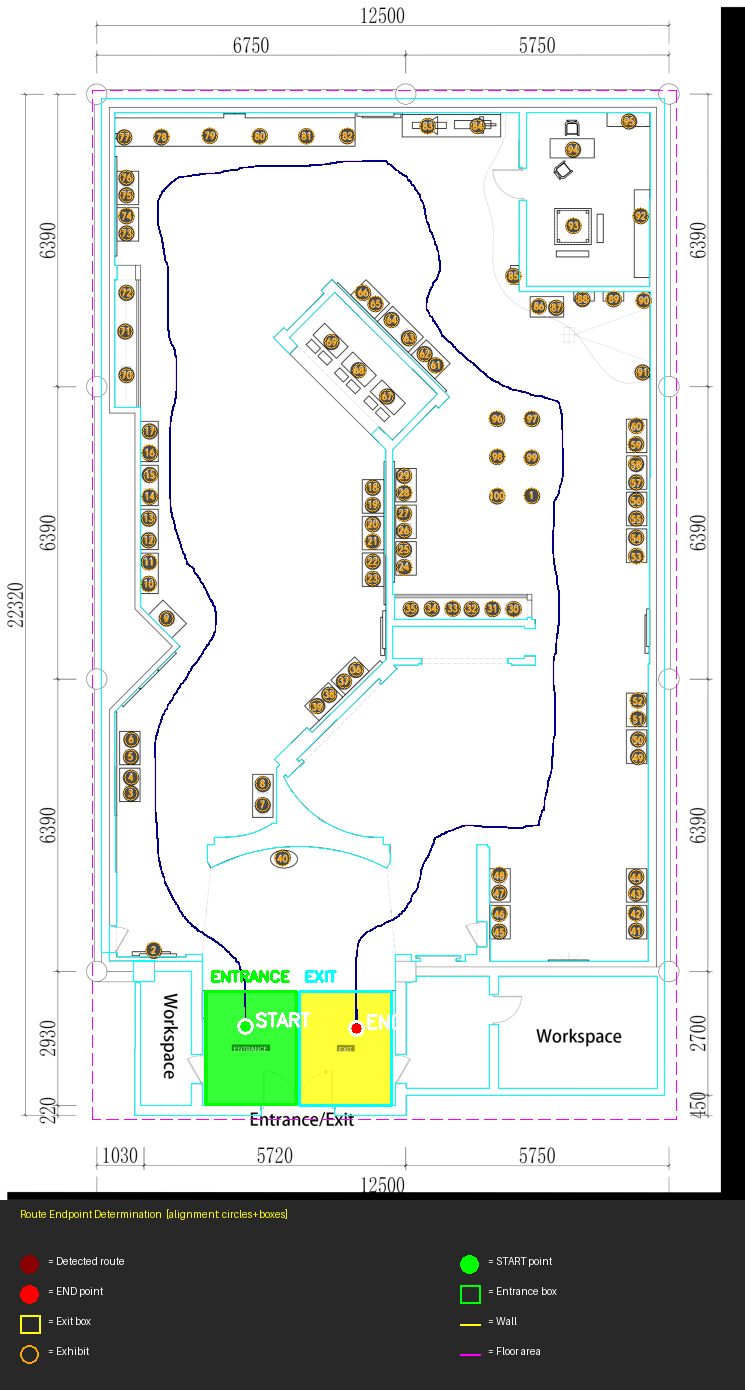
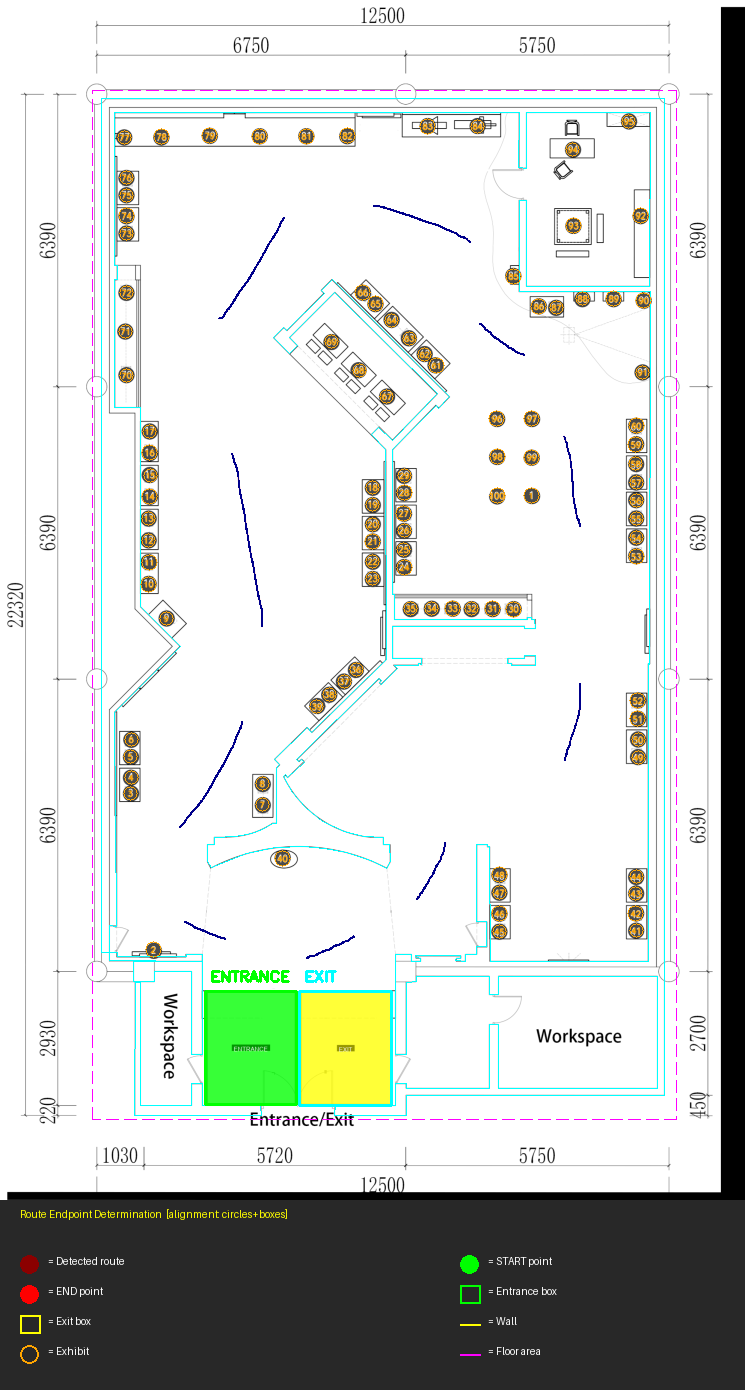
Added check for route line connectivity

diff --git a/determine_route.py b/determine_route.py
@@ -438,6 +438,101 @@ class RouteDeterminer:
         return result
 
     # ──────────────────────────────────────────────────────────────────
+    # Connectivity check
+    # ──────────────────────────────────────────────────────────────────
+
+    def _check_route_connectivity(self, final_mask, noise_threshold_ratio=0.01):
+        """
+        Check whether the route pixels form a single connected line.
+
+        Uses cv2.connectedComponentsWithStats to label every contiguous island
+        of non-zero pixels in final_mask.  The largest island is assumed to be
+        the true route; all others are considered disconnected fragments.
+        Fragments whose area is below noise_threshold_ratio × (largest island
+        area) are classified as noise rather than genuine disconnections.
+
+        Parameters
+        ----------
+        final_mask            : uint8 binary mask (route pixels = 255)
+        noise_threshold_ratio : fragments smaller than this fraction of the
+                                main route are treated as noise (default 1 %)
+
+        Returns
+        -------
+        dict with keys:
+          is_connected   – True if only one meaningful component was found
+          num_components – total labelled components (excluding background)
+          num_fragments  – components that are large enough to be non-noise
+          main_size      – pixel count of the largest component
+          fragments      – list of dicts {label, size, centroid} for every
+                           non-main component above the noise threshold,
+                           sorted largest → smallest
+        """
+        print("\n[Connectivity Check]")
+        total_px = cv2.countNonZero(final_mask)
+        if total_px == 0:
+            print("  ⚠  Mask is empty — cannot check connectivity.")
+            return {'is_connected': False, 'num_components': 0,
+                    'num_fragments': 0, 'main_size': 0, 'fragments': []}
+
+        num_labels, labels, stats, centroids = cv2.connectedComponentsWithStats(
+            final_mask, connectivity=8)
+
+        # Label 0 is background — skip it.
+        # stats columns: CC_STAT_LEFT, CC_STAT_TOP, CC_STAT_WIDTH,
+        #                CC_STAT_HEIGHT, CC_STAT_AREA
+        component_areas = [
+            (label, int(stats[label, cv2.CC_STAT_AREA]),
+             (float(centroids[label][0]), float(centroids[label][1])))
+            for label in range(1, num_labels)   # skip background (0)
+        ]
+
+        # Sort largest → smallest
+        component_areas.sort(key=lambda x: x[1], reverse=True)
+        num_components = len(component_areas)
+
+        if num_components == 0:
+            print("  ⚠  No components found.")
+            return {'is_connected': False, 'num_components': 0,
+                    'num_fragments': 0, 'main_size': 0, 'fragments': []}
+
+        main_label, main_size, main_centroid = component_areas[0]
+        noise_cutoff = max(1, int(main_size * noise_threshold_ratio))
+
+        fragments = [
+            {'label': lbl, 'size': sz,
+             'centroid': (round(cx, 1), round(cy, 1))}
+            for lbl, sz, (cx, cy) in component_areas[1:]
+            if sz >= noise_cutoff
+        ]
+
+        is_connected  = (len(fragments) == 0)
+        num_fragments = len(fragments)
+
+        print(f"  Total route pixels   : {total_px}")
+        print(f"  Connected components : {num_components}  "
+              f"(noise cutoff < {noise_cutoff} px)")
+        print(f"  Main route size      : {main_size} px  "
+              f"@ centroid {(round(main_centroid[0],1), round(main_centroid[1],1))}")
+
+        if is_connected:
+            print("  ✅ Route is fully connected — single continuous line.")
+        else:
+            print(f"  ❌ Route has {num_fragments} disconnected fragment(s):")
+            for i, frag in enumerate(fragments, 1):
+                pct = frag['size'] / main_size * 100
+                print(f"     Fragment {i}: {frag['size']} px "
+                      f"({pct:.1f}% of main)  @ centroid {frag['centroid']}")
+
+        return {
+            'is_connected'  : is_connected,
+            'num_components': num_components,
+            'num_fragments' : num_fragments,
+            'main_size'     : main_size,
+            'fragments'     : fragments,
+        }
+
+    # ──────────────────────────────────────────────────────────────────
     # Route colour sampling
     # ──────────────────────────────────────────────────────────────────
 
@@ -772,6 +867,9 @@ class RouteDeterminer:
             final_mask = self._skeletonize(mask_opened)
             print(f"    Skeleton: {cv2.countNonZero(final_mask)} pixels")
 
+        # ── Connectivity check ────────────────────────────────────────
+        connectivity = self._check_route_connectivity(final_mask)
+
         # ── Endpoints ─────────────────────────────────────────────────
         raw_pts = np.column_stack(np.where(final_mask > 0))
         if len(raw_pts) == 0:
@@ -792,6 +890,11 @@ class RouteDeterminer:
         print("SUMMARY")
         print("="*70)
         print(f"Alignment method : {alignment_method}")
+        if connectivity['is_connected']:
+            print(f"✅ ROUTE: Fully connected  ({connectivity['main_size']} px)")
+        else:
+            print(f"❌ ROUTE: {connectivity['num_fragments']} disconnected fragment(s)  "
+                  f"(main = {connectivity['main_size']} px)")
         if endpoints['start']:
             print(f"✅ START: {endpoints['start']}")
         else:
